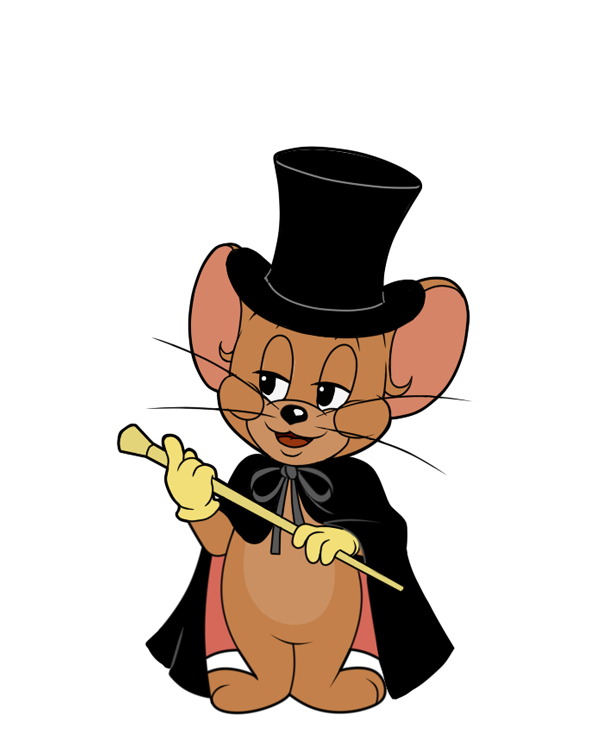
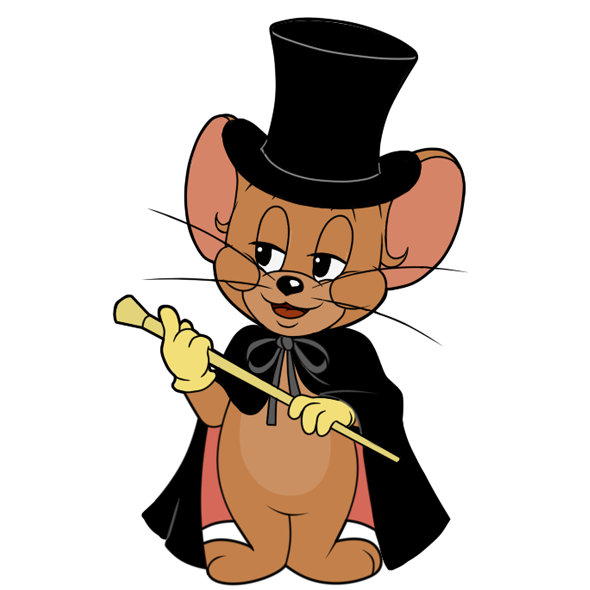
docs(mouseCharacters): add 魔术师

Changed region(s): [[0.1834, 0.0305, 0.7946, 1.0], [0.7029, 0.6102, 0.7334, 0.6407], [0.275, 0.7932, 0.3056, 0.8237]]

diff --git a/src/data/mouseCharacters.ts b/src/data/mouseCharacters.ts
@@ -4,7 +4,6 @@ import type { CharacterDefinition } from './types';
 
 // Generate image URL based on character ID
 export const getMouseImageUrl = (characterId: string): string => {
-  // support character name editing disallow hard coding existing characters
   return `/images/mice/${characterId}.png`;
 };
 
@@ -1152,6 +1151,212 @@ const mouseCharacterDefinitions: Record<string, CharacterDefinition> = {
             level: 3,
             description: '对猫咪造成伤害或受到猫咪的伤害时，刷新主动技能。(CD：9秒)',
             // detailedDescription: '对猫咪造成伤害或受到猫咪的伤害时，刷新主动技能。(CD：9秒)',
+          },
+        ],
+      },
+    ],
+  },
+
+  /* ----------------------------------- 魔术师 ----------------------------------- */
+  // 角色名
+  魔术师: {
+    description:
+      '魔术师是杰瑞的表哥之一，他出身高贵，动作优雅，是一位不折不扣的绅士，他拥有强大的魔法能力，能够将猫玩弄于股掌之间。',
+
+    maxHp: 99,
+    attackBoost: 0,
+    hpRecovery: 2,
+    moveSpeed: 645,
+    jumpHeight: 400,
+    cheesePushSpeed: 0.4,
+    wallCrackDamageBoost: 0,
+    mousePositioningTags: [
+      {
+        tagName: '奶酪',
+        isMinor: false,
+        description: '兔子先生可以安全地运送和推入奶酪，而兔子大表哥可以增加魔术师的推速。',
+        additionalDescription: '推速在奶酪位并不占优，更擅长通过干扰和拉扯来创造推奶酪机会。',
+      },
+      {
+        tagName: '干扰',
+        isMinor: false,
+        description: '卡牌和兔子大表哥可以干扰猫咪。',
+        additionalDescription:
+          '卡牌可以超远程支援，且控制时间长，但并非硬性控制，实际使用时更偏向于用它创造更多的拉扯机会。',
+      },
+      {
+        tagName: '救援',
+        isMinor: true,
+        description: '利用卡牌限制猫咪，然后利用兔子先生救援。',
+        additionalDescription:
+          '红牌+兔子先生即可较稳定地进行救援。兔子大表哥可以阻止秒飞，但需要魔术师在附近，需要牺牲部分推奶酪和拉扯能力。',
+      },
+    ],
+
+    skillAllocations: [
+      {
+        id: '兔子先生',
+        pattern: '[12]0(2)(2)1100',
+        weaponType: 'weapon1',
+        description: '升级兔子先生时会召回兔子并使技能CD归零。',
+        additionaldescription: '需要注意，加点也会终止当前指令。',
+      },
+      {
+        id: '兔子大表哥',
+        pattern: '3101100-3-3',
+        weaponType: 'weapon2',
+        description: '',
+        additionaldescription: '',
+      },
+    ],
+
+    knowledgeCardGroups: [
+      {
+        cards: ['S-铁血', 'S-缴械', 'S-舍己', 'C-救救我'],
+        description:
+          '救援卡组，红牌命中后可以相对安全地舍己救援。若知识量充足，可视情况将舍己换为无畏。',
+      },
+      {
+        cards: ['S-铁血', 'S-舍己', 'B-精准投射', 'C-不屈', 'C-救救我'],
+        description:
+          '通用卡组，不屈提升自保，精准投射配合卡牌的短CD可以频繁进行干扰。若知识量不足，可将精准投射换为夹不住我。',
+      },
+      {
+        cards: ['S-铁血', 'B-幸运', 'B-精准投射', 'C-不屈', 'C-脱身'],
+        description: '通用卡组的幸运变种，思路类似。本套卡组需要较高的熟练度和合适的阵容。',
+      },
+      {
+        cards: ['S-铁血', 'S-护佑', 'S-舍己', 'C-救救我'],
+        description: '基础卡组，牺牲上限换下限，适合新手或者应对难以破盾的猫咪。',
+      },
+    ],
+
+    skills: [
+      {
+        name: '奇思妙想',
+        type: 'active',
+        description:
+          '从三张卡牌中选取一张，投掷命中猫咪时令其传送一小段距离，并禁用技能/急速反向/失重漂浮一段时间。',
+        detailedDescription:
+          '点击技能后进入1.5秒前摇，随后魔术师手中获得一张随机颜色卡牌，技能同步进入5秒读条，期间每0.5秒按红-黄-蓝的顺序切换卡色（若切换时魔术师正在交互中，则不会切换）；再次点击技能/用道具键投出卡牌/5秒读条结束后，将固定卡色，技能进入CD。\n卡牌属于投掷物，投掷时初速度为2000，穿越所有墙体，命中猫咪时可以触发部分以投掷命中为触发条件的效果（如知识卡-缴械，特技-干扰投掷等）。卡牌也会命中兔子大表哥/森林牧场大鸭子，但不会触发卡牌效果或投掷命中触发的效果。猫咪受卡牌效果影响期间，不会受到新的卡牌效果。魔术师虚弱时，卡牌不会从手中掉落。卡牌被丢弃时，将直接被移除。\n卡牌效果如下：\n通用：使目标向卡牌飞行方向传送80距离，并改变角色朝向。\n红牌：立刻受到65（+0）点伤害并掉落手中道具，6秒内禁用技能且减速18.5%。\n黄牌：每2秒获得1.5秒的反向和150%移速加成，持续7秒。（无法被免疫香水的效果免疫）\n蓝牌：获得8秒失重状态。该状态下可在空中进行跳跃。', //红牌减速和黄牌加速数值采用了梦回的数据
+        canMoveWhileUsing: true,
+        canUseInAir: true,
+        cancelableSkill: '可被跳跃键或道具键打断',
+        cancelableAftercast: '无后摇',
+        videoUrl: 'https://www.bilibili.com/video/BV1Qd4y1W7fg/?t=8',
+        skillLevels: [
+          {
+            level: 1,
+            description: '',
+            cooldown: 25,
+          },
+          {
+            level: 2,
+            description: '减少CD。',
+            detailedDescription: '减少CD至18秒。',
+            cooldown: 18,
+          },
+          {
+            level: 3,
+            description: '卡牌命中时为自身提供恢复/隐身/加速效果，命中兔子大表哥时额外减少CD。',
+            detailedDescription:
+              '卡牌命中任意目标时，自身根据卡色获得效果：\n红色：获得7/s的Hp恢复，持续5秒\n黄色：获得隐身，持续5秒；蓝色：获得30%加速，持续3秒。此外，卡牌命中兔子大表哥时，额外减少30%剩余CD。', //加速采用了梦回的数据
+            cooldown: 18,
+          },
+        ],
+      },
+      {
+        name: '兔子先生',
+        type: 'weapon1',
+        description:
+          '召唤兔子先生，可下达救援、搬奶酪、推奶酪、拾取、投掷、治疗或跟随指令。兔子继承魔术师的部分效果。',
+        detailedDescription:
+          '在1.9秒前摇后，召唤“兔子先生”，其在场时技能按键变为释放指令（无CD，可移动释放但不可取消前摇）。\n释放指令：在0.9秒前摇后，选取以魔术师为中心，半径1150范围内的一个目标释放指令。优先选择优先级高的目标；优先级相同时，选择与魔术师直线距离近的目标。\n指令按优先级从高到低排列如下：\n1.火箭救援-对被绑上火箭的己方老鼠下达指令：兔子前往救援。\n2.搬奶酪-对奶酪下达指令：[兔子将立刻放下道具并搬起该奶酪](如兔子手里已经有奶酪，则什么都不做)。\n3.推奶酪-对已放入奶酪的洞口，或在兔子手持奶酪时对空洞口下达指令：兔子手中有奶酪时，他会朝该洞口投掷奶酪；该洞口有未推入的奶酪时，他会与其交互并开始推奶酪。\n4.治疗-对虚弱且可治疗的老鼠下达指令：该老鼠虚弱时，兔子将尝试对其治疗。\n5.投掷-兔子手中有[道具](奶酪除外)时，对猫咪/墙缝/小黄鸭下达指令：兔子手持道具时，他将连续对其投掷/使用道具（即：兔子开始投掷时，如果所在位置有其他道具，会一并拾取并立刻投掷/使用，直到没有道具可被拾取）。\n6.拾取-对部分可拾取的投掷道具下达指令：兔子手持该道具以外的道具时，他将放下道具；手中没有道具时，他会拾取该道具。\n7.跟随-无其他目标时下达指令：无效果。\n兔子先生的属性：Hp上限110，Hp恢复4.5（常态）或2（受伤时），移速820，跳跃550，攻击增伤20，推速1.6%/秒，墙缝增伤2。\n兔子先生的特性：\n1.常态：免疫碎片、捕鼠夹和直接抓起。搬运奶酪时不会减速，且可正常交互。当自身Hp为 0/魔术师被抓起或被淘汰时，自身退场并使技能进入CD。在场时会继承魔术师的[“无畏”知识卡](但改为被救者和魔术师获得无畏效果)和[由常规道具获得的牛奶、隐身和护盾效果](不包括卡牌、药水舱等)。其它判断逻辑[接近己方老鼠](如：猫咪攻击时可正常获得经验，会受推速加成)。\n2.指令执行逻辑：指令下达后将一直生效，直到下一条指令被下达。当魔术师对新目标下达指令或兔子退场时，兔子将立刻传送到魔术师的身边；当魔术师对相同目标下达指令时，指令将失效。当兔子当前指令行为执行完毕/跟随魔术师时与其距离超过360或一段时间内未进行交互和移动时，他将向魔术师移动。\n注：以下道具无法触发兔子的拾取指令，但可以在执行投掷指令时被拾取和使用：冰块，小鞭炮，鞭炮束，玩具枪，遥控器，电风扇，冰桶，鞭炮堆。兔子可以被动拾取药水，但不会使用，而是在一小段时间后放下；兔子可以以2000的初速度投掷电风扇。', //兔子基础属性采用了梦回的数据
+        canMoveWhileUsing: false,
+        canUseInAir: true,
+        cancelableSkill: '可被跳跃键或道具键打断',
+        cancelableAftercast: '无后摇',
+        videoUrl: 'https://www.bilibili.com/video/BV1Qd4y1W7fg/?t=88',
+        skillLevels: [
+          {
+            level: 1,
+            description: '', //游戏内Lv.1的描述有误，兔子在场时魔术师并不会额外增加移速
+            cooldown: 70,
+          },
+          {
+            level: 2,
+            description: '减少CD；提高兔子的Hp上限。升级时会召回兔子并重置CD。',
+            detailedDescription: '减少CD至40秒；兔子的Hp上限提高至150。升级时会召回兔子并重置CD。',
+            cooldown: 40,
+          },
+          {
+            level: 3,
+            description: '兔子的推速、攻击和墙缝增伤提升，在场时提高魔术师的移速、推速和Hp恢复。',
+            detailedDescription:
+              '兔子的推速提高75%，攻击增伤提高30，墙缝增伤提高3；在场时提高魔术师10%的移速，3.75%/秒的推速，1.67/s的Hp恢复。升级时会召回兔子并重置CD。',
+            cooldown: 40,
+          },
+        ],
+      },
+      {
+        name: '兔子大表哥',
+        type: 'weapon2',
+        description:
+          '召唤兔子大表哥，可下达举火箭、指卧撑或保镖指令。兔子大表哥可被卡牌命中并储存卡牌效果，期间出拳命中猫咪时对其施加卡牌效果。该技能无法主动升级，而是在队友被淘汰时自动升级。',
+        detailedDescription:
+          '兔子大表哥不在场时，使用技能在1.9秒前摇后召唤兔子大表哥。其在场时，可拖动技能按键至半径750以内的目标，[执行对应指令](每次释放指令额外+30表现分，最短间隔5秒，至多+300分)；[兔子大表哥可被卡牌命中](卡牌不会击中其他魔术师的兔子大表哥)并储存对应卡牌效果。\n指令按选取目标优先级从高到低排列如下：\n1.举火箭-对火箭下达指令：兔子大表哥传送至该火箭位置并将其举起，使其交互和判定位置上移，不再因倒计时归零而起飞。单次最多执行60秒。\n2.指卧撑-对地面下达指令：兔子大表哥传送至该处并开始做指卧撑，并以[自身](贴图位置：俯卧时从头顶到腰部)中轴线距地175处为端点，向面朝方向生成一个长度为125的平台，该平台具有弹性。以兔子大表哥为中心点，左右各距离80的范围内存在猫咪时，兔子大表哥会持续出拳（出拳只影响贴图，不影响平台及自身位置）。单次最多执行10秒。\n3.保镖-无其他可选目标时下达指令：兔子大表哥跟随魔术师。兔子大表哥被卡牌命中且魔术师周围1000距离内存在猫咪时，兔子大表哥会传送到其位置并出拳；魔术师或兔子大表哥被距离400以内的猫咪攻击时，兔子大表哥会跑向其并出拳；魔术师虚弱且与兔子大表哥距离小于100时，兔子大表哥会在0.5秒前摇后将魔术师击退1150距离。\n有关“储存卡牌”及“出拳”的信息如下：\n1.储存卡牌：兔子大表哥被卡牌命中时，[储存该卡牌60秒](可从外观分辨兔子大表哥储存了哪些卡牌)，三种卡牌独立计时，受到已有的卡牌时重置其计时。\n2.出拳：在0.5秒前摇后，对面前距离300内的猫咪造成35点伤害，并减速70%，持续1.7秒；对[墙缝](无法攻击墙缝上的泡泡)造成17点伤害；若出拳[命中猫咪](会额外获得100表现分，单场比赛至多1000)，会对其施加已储存的一种卡牌效果，卡牌的传送方向改为与出拳方向一致，优先级为黄-红-蓝；若单次攻击命中多个目标，会为目标分别附加卡牌效果，直到储存的卡牌耗尽；若命中已有卡牌效果的猫咪，也会消耗储存的卡牌，但不产生效果；若未命中目标，不会消耗。出拳CD2.6秒，所有指令共用。\n兔子大表哥的属性：Hp上限200，Hp恢复3/s，移速820，跳跃550。\n兔子大表哥的特性：\n1.常规：猫咪会在小地图全程透视他的位置。永久霸体。当魔术师被淘汰时，兔子大表哥也会离场。其它判断逻辑[接近己方猫咪](如：有伤害保护机制；Hp归零时，会虚弱5秒并快速恢复血量；Hp<0时会虚弱并使击杀者获得金钱；被魔术师使用卡牌击中5次会使魔术师-50成就分等)。\n2.指令执行逻辑：魔术师在场且自身与魔术师的距离超过1600/魔术师虚弱时，兔子大表哥会中断当前指令，传送到魔术师身边并执行保镖指令；魔术师被绑上火箭时，兔子大表哥会自动对魔术师所在的火箭执行举火箭指令（秒飞火箭除外）；兔子大表哥虚弱时，会中断当前指令，虚弱完毕后执行保镖指令。兔子大表哥执行指令时的朝向与收到指令时的朝向一致。\n3.指卧撑时：指令期间对其他地面位置下达指令时，指令剩余时间会被继承，执行完毕后自动执行跟随指令。可选取斜面为目标，但无法选取吊灯等场景组件上的平台为目标。\n4.举火箭时：兔子大表哥位移时，火箭的交互和判定位置会一同移动；兔子大表哥放下火箭时，火箭会传送回原位。指令期间无法对其他火箭下达举火箭指令。\n举起火箭时与其他角色技能的互动关系：沙包拳头无法打灭火箭；滑步踢无法踢飞火箭；乾坤袋无法吞火箭；喜剧之王Lv.2无法使表演者·杰瑞从火箭上挣脱（已挣脱时再举起火箭则贴图出错））', //正常的：Lv.3鼓舞、天使祝福可正常对火箭上的己方生效；火药桶、Lv.2共鸣可正常拆火箭；爱之花洒可浇灭火箭，但释放位置需上移；友情庇护范围内/风格骤变Lv.3范围内/蓝图内的火箭起飞速度会放缓（蓝图内火箭贴图会出错）
+        canMoveWhileUsing: true,
+        canUseInAir: true,
+        cancelableSkill: '无前摇',
+        cancelableAftercast: '无后摇',
+        videoUrl: '',
+        skillLevels: [
+          {
+            level: 1,
+            description: '魔术师推速提高。',
+            detailedDescription: '魔术师推速提高3%/s。',
+            cooldown: 5,
+          },
+          {
+            level: 2,
+            description:
+              '举火箭指令执行期间可主动攻击，并改变兔子大表哥的外观（穿上披风）。魔术师推速和救援速度进一步提高。',
+            detailedDescription:
+              '举火箭时，若身旁100范围内有猫咪，则会挥舞火箭对范围内的所有目标造成35点伤害，向身侧击退100距离并向上击飞250距离。魔术师推速改为提高6%/s，救援速度提高50%。',
+            cooldown: 5,
+          },
+          {
+            level: 3,
+            description:
+              '新增主动出拳指令，并改变兔子大表哥的外观（穿上衬衫并戴上帽子）。魔术师免疫受伤；推速和救援速度极大幅度提高。',
+            detailedDescription:
+              '新增指令：主动出拳-对猫咪或墙缝下达指令：兔子大表哥传送到目标位置并立即出拳（该指令有10秒CD，CD期间释放该指令则指令无效，释放其他指令时CD归零）。该指令优先级高于指卧撑，低于举火箭。魔术师推速改为提高9%/s，救援速度改为提高约250%。',
+            cooldown: 5,
+          },
+        ],
+      },
+      {
+        name: '魔术戏法',
+        type: 'passive',
+        videoUrl: 'https://www.bilibili.com/video/BV1Qd4y1W7fg/?t=69',
+        skillLevels: [
+          {
+            level: 1,
+            description: '卡牌命中时，手中会随机出现一张卡牌，同时减少技能CD，并获得经验。',
+            detailedDescription:
+              '主动技能的卡牌命中猫咪/兔子大表哥/森林牧场大鸭子时，减少主动与武器技能CD各10秒，获得（400/己方存活人数）点经验两次，并且获得一张随机颜色的新卡牌（获得卡牌有30秒CD）。',
+          },
+          {
+            level: 2,
+            description: '卡牌命中后，自身投掷的下一个易碎道具命中目标时也附加卡牌效果。',
+            detailedDescription:
+              '主动技能的卡牌命中猫咪/兔子大表哥/森林牧场大鸭子时，为魔术师下一个手持的道具附加以下效果：若该道具为玻璃杯/碗/盘子/圆盘子/灰色花瓶/蓝白花瓶/香水瓶/胡椒瓶/冰块，则被魔术师投掷时，额外为命中目标附加对应卡牌效果（包括使用冰块误伤己方老鼠的情况）；若手持的道具不在上述之列，则不附加任何效果，该次机会将被浪费。道具被附加效果后，即使被放下/被装入蓝白花瓶中，所附加的效果依然存在。魔术师获得新卡牌时，清除场上已有的附加效果。',
+          },
+          {
+            level: 3,
+            description: '受到致命伤害时，有小概率消耗手中的可消耗道具并免疫当次伤害。',
+            detailedDescription:
+              '当魔术师即将受到致命伤害/即将虚弱时，若手持玻璃杯/碗/盘子/圆盘子/灰色花瓶/蓝白花瓶/香水瓶/胡椒瓶/冰块/任意卡牌，则有约30%的概率消耗该道具，并免疫当次伤害。', //参考了梦回的数据
           },
         ],
       },
